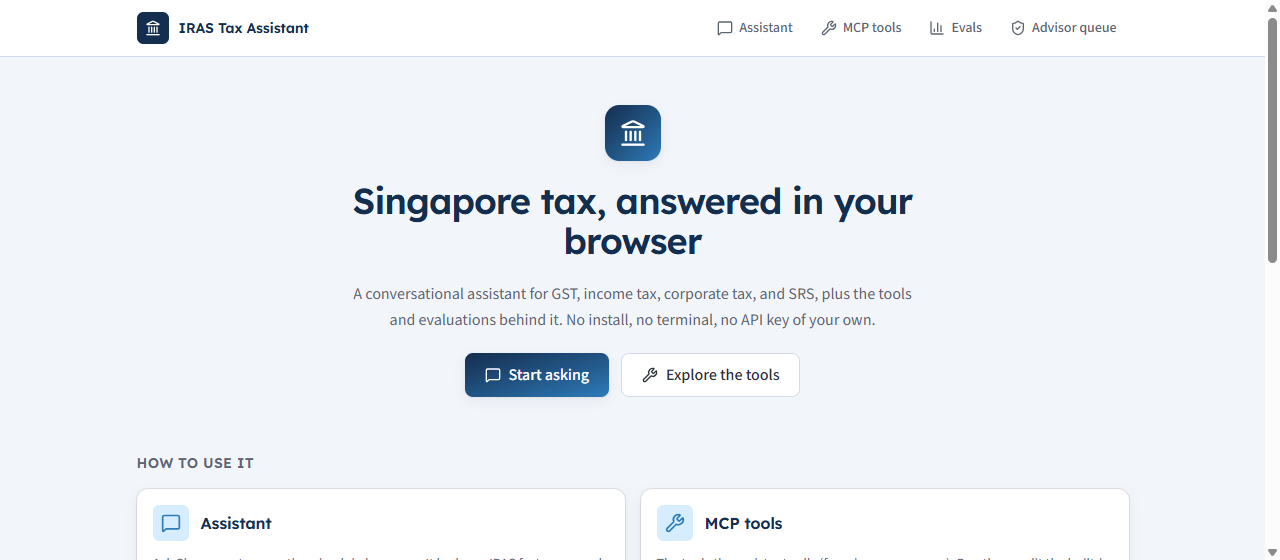
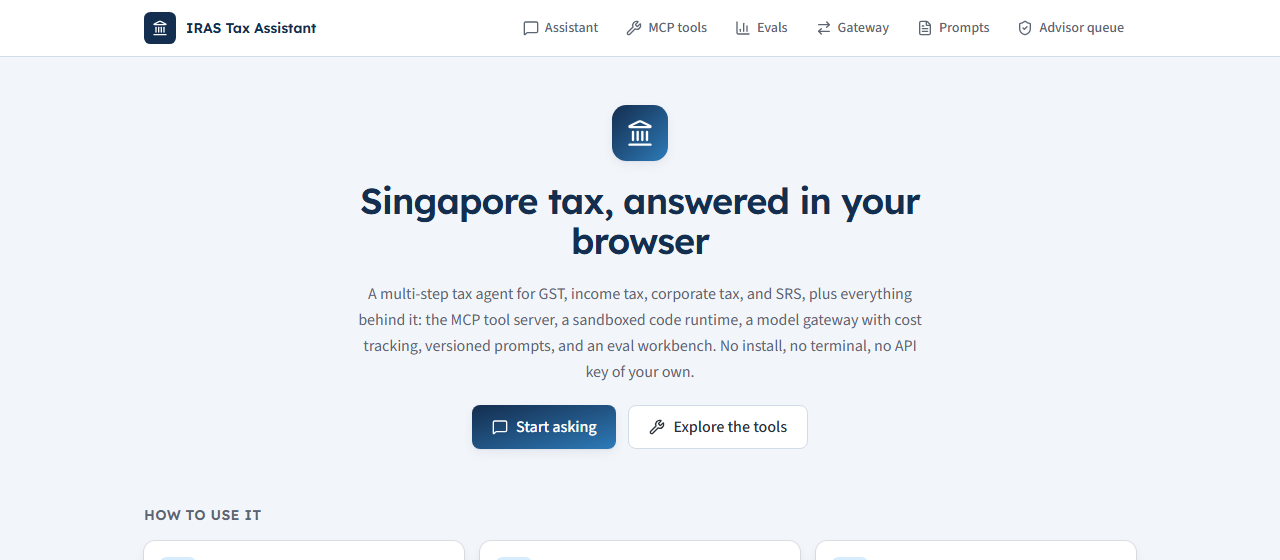
content: update IRAS Tax Assistant card to the current app
Replace the MCP-style chatbot blurb with the multi-step agent, MCP
server, gateway, sandbox, prompts, and judge-graded evals, and retake
the gallery screenshot from the current landing page.

diff --git a/app/components/Gallery.tsx b/app/components/Gallery.tsx
@@ -10,7 +10,7 @@ import armouryShot from "../shots/armoury.png";
 import driveShot from "../shots/drivebuddy.png";
 
 const APPS = [
-  { name: "IRAS Tax Assistant", cat: "Tax", tag: "AI · Tax", color: "#0ea5e9", note: "A Singapore tax chatbot (GST, income, corporate, SRS) backed by configurable MCP-style tools, model routing across OpenAI and Anthropic, and an eval harness that grades models on pass rate, with escalation to a human advisor. Not affiliated with IRAS.", live: "https://d1yl1box414d2i.cloudfront.net", repo: "https://github.com/elleskay/iras-tax-assistant", shot: irasShot },
+  { name: "IRAS Tax Assistant", cat: "Tax", tag: "AI · Tax", color: "#0ea5e9", note: "A multi-step Singapore tax agent (GST, income, corporate, SRS) that chains real MCP tools with a visible step trace. Cost-aware model routing across OpenAI and Anthropic through an observed gateway, a sandboxed code runtime, versioned prompts, an LLM-judge eval harness, and escalation to a human advisor. Not affiliated with IRAS.", live: "https://d1yl1box414d2i.cloudfront.net", repo: "https://github.com/elleskay/iras-tax-assistant", shot: irasShot },
   { name: "DriveBuddy", cat: "Mobility", tag: "AI · Mobility", color: "#818cf8", note: "AI driving companion for Singapore: live ERP, traffic, weather and parking, drive tracking with in-drive voice alerts, post-trip cost breakdowns, and an AI assistant.", live: "https://elleskay.github.io/drivebuddy/", repo: "https://github.com/elleskay/drivebuddy", shot: driveShot },
   { name: "CoverLens", cat: "Insurance", tag: "AI · Insurance", color: "var(--color-accent)", note: "AI insurance policy checker. Grounded LangGraph extraction, every finding quote-backed.", live: "https://d33z7oya883ugt.cloudfront.net", repo: "https://github.com/elleskay/insurance-dashboard", shot: coverShot },
   { name: "Cancer Navigator", cat: "Healthcare", tag: "Healthcare", color: "var(--color-violet)", note: "Plain-language roadmaps by cancer type for newly diagnosed patients in Singapore, with instant Cancer Drug List coverage lookup.", live: "https://d1z96o21m62u9i.cloudfront.net", repo: "https://github.com/elleskay/cancer-navigator", shot: cancerShot },